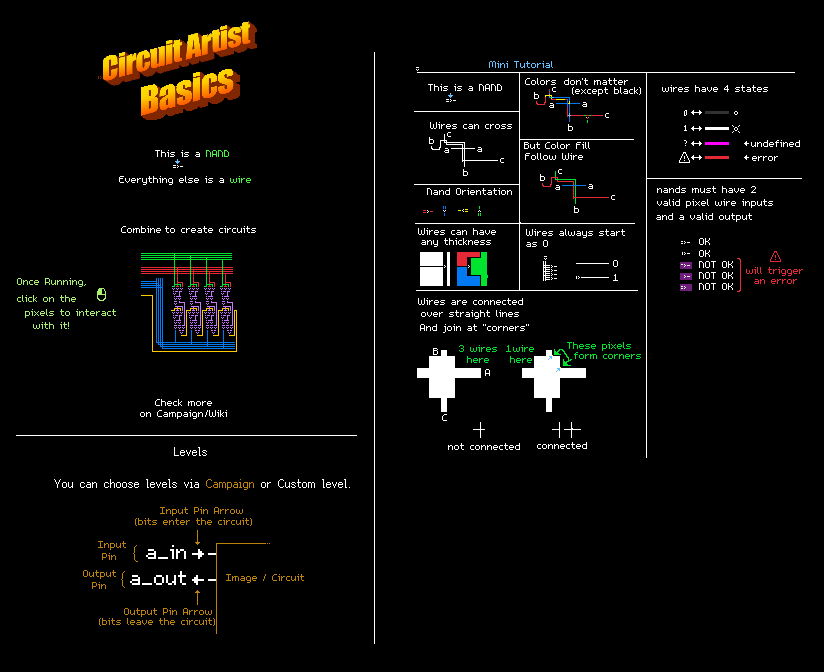
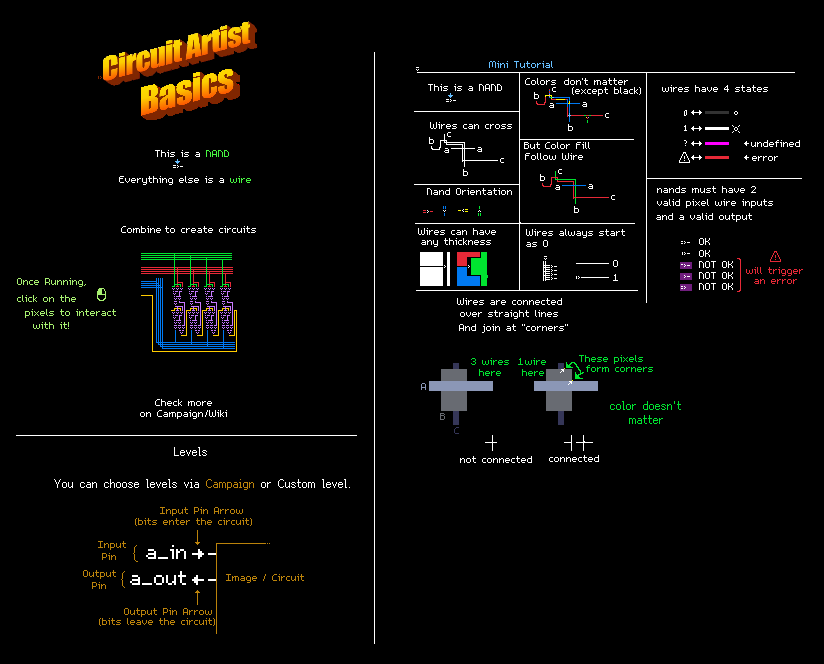
fix a bug when loading custom levels from steam

diff --git a/src/game_registry.c b/src/game_registry.c
@@ -49,7 +49,7 @@ static int lua_AddGroup(lua_State* L) {
   }
   group->id = clone_string(lua_tostring(L, -1));
   lua_pop(L, 1);
-  if (get_group_by_id(r, group->id)) {
+  if (get_group_by_id(group->id)) {
     return luaL_error(L, "Group with id '%s' already exists", group->id);
   }
 
@@ -91,7 +91,7 @@ static int lua_AddGroup(lua_State* L) {
     for (int i = 1; i <= ndeps; i++) {
       lua_rawgeti(L, -1, i);
       const char* id = lua_tostring(L, -1);
-      LevelGroup* group_dep = get_group_by_id(r, id);
+      LevelGroup* group_dep = get_group_by_id(id);
       arrput(group->deps, group_dep);
       lua_pop(L, 1);
     }
@@ -137,7 +137,7 @@ static int lua_AddLevel(lua_State* L) {
   /* Group */
   lua_getfield(L, 1, "group");
   const char* group_id = lua_isstring(L, -1) ? lua_tostring(L, -1) : "custom";
-  LevelGroup* group = get_group_by_id(r, group_id);
+  LevelGroup* group = get_group_by_id(group_id);
   if (!group) {
     return luaL_error(L, TextFormat("There's no group with id: %s", group_id));
   }
@@ -155,7 +155,7 @@ static int lua_AddLevel(lua_State* L) {
   }
   ldef->id = clone_string(TextFormat("campaign:%s", lua_tostring(L, -1)));
   lua_pop(L, 1);
-  if (get_level_by_id(r, ldef->id)) {
+  if (get_level_by_id(ldef->id)) {
     return luaL_error(L, "Level with id '%s' already exists", ldef->id);
   }
 
@@ -180,7 +180,7 @@ static int lua_AddLevel(lua_State* L) {
       lua_rawgeti(L, -1, i);
       const char* id = lua_tostring(L, -1);
       assert(id);
-      LevelDef* ldef_dep = get_level_by_id(r, TextFormat("campaign:%s", id));
+      LevelDef* ldef_dep = get_level_by_id(TextFormat("campaign:%s", id));
       arrput(ldef->deps, ldef_dep);
       lua_pop(L, 1);
     }
@@ -336,10 +336,10 @@ static Mod* init_mod_from_folder(GameRegistry* r, const char* mod_path) {
   return mod;
 }
 
-LevelDef* get_level_by_id(GameRegistry* r, const char* level_id) {
-  int i = shgeti(r->levels, level_id);
+LevelDef* get_level_by_id(const char* level_id) {
+  int i = shgeti(_r->levels, level_id);
   if (i == -1) return NULL;
-  return r->levels[i].value;
+  return _r->levels[i].value;
 }
 
 static int find_topic_by_id(GameRegistry* r, const char* topic_id) {
@@ -350,6 +350,23 @@ static int find_topic_by_id(GameRegistry* r, const char* topic_id) {
     }
   }
   return -1;
+}
+
+static void registry_add_tutorial_topic(GameRegistry* r, const char* topic_id,
+                                        const char* name,
+                                        const char* icon_path) {
+  assert(FileExists(icon_path));
+  int idx = find_topic_by_id(r, topic_id);
+  if (idx != -1) {
+    // TODO Handle this error properly
+    abort();
+  }
+
+  TutorialTopic topic = {0};
+  topic.id = clone_string(topic_id);
+  topic.name = clone_string(name);
+  topic.icon = create_sprite(LoadTexture(icon_path));
+  arrput(r->topics, topic);
 }
 
 static int lua_AddWikiTopic(lua_State* L) {
@@ -377,6 +394,22 @@ static int lua_AddWikiTopic(lua_State* L) {
   return 0;
 }
 
+static void registry_add_tutorial_item(GameRegistry* r, const char* topic_id,
+                                       const char* item_id, const char* name,
+                                       const char* desc, sprite_t* sprites,
+                                       const char* icon_path) {
+  assert(FileExists(icon_path));
+  int idx = find_topic_by_id(r, topic_id);
+  TutorialTopic* topic = &r->topics[idx];
+  TutorialItem item = {0};
+  item.icon = create_sprite(LoadTexture(icon_path));
+  item.desc = clone_string(desc);
+  item.desc_imgs = sprites;
+  item.id = clone_string(item_id);
+  item.name = clone_string(name);
+  arrput(topic->items, item);
+}
+
 static int lua_AddWikiItem(lua_State* L) {
   GameRegistry* r = _load_ctx.registry;
   const char* root = _load_ctx.mod->root;
@@ -386,7 +419,7 @@ static int lua_AddWikiItem(lua_State* L) {
   const char* topic_id = luaL_checkstring(L, -1);
   lua_getfield(L, 1, "id");
   const char* id = luaL_checkstring(L, -1);
-  if (find_wiki_from_id(r, id)) {
+  if (find_wiki_from_id(id)) {
     return luaL_error(L, "Wiki item with id '%s' already exists", id);
   }
   lua_getfield(L, 1, "name");
@@ -427,14 +460,8 @@ static GameRegistry* create_game_registry() {
   return r;
 }
 
-void init_game_registry() {
-  _r = create_game_registry();
-  init_mods(_r);
-  load_progress();
-}
-
-LevelGroup* get_group_by_id(GameRegistry* r, const char* group_id) {
-  return shget(r->groups, group_id);
+LevelGroup* get_group_by_id(const char* group_id) {
+  return shget(_r->groups, group_id);
 }
 
 #ifdef WITH_STEAM
@@ -608,45 +635,13 @@ void load_progress() {
   on_always_on_top_change();
 }
 
-void registry_add_tutorial_topic(GameRegistry* r, const char* topic_id,
-                                 const char* name, const char* icon_path) {
-  assert(FileExists(icon_path));
-  int idx = find_topic_by_id(r, topic_id);
-  if (idx != -1) {
-    // TODO Handle this error properly
-    abort();
-  }
-
-  TutorialTopic topic = {0};
-  topic.id = clone_string(topic_id);
-  topic.name = clone_string(name);
-  topic.icon = create_sprite(LoadTexture(icon_path));
-  arrput(r->topics, topic);
-}
-
-void registry_add_tutorial_item(GameRegistry* r, const char* topic_id,
-                                const char* item_id, const char* name,
-                                const char* desc, sprite_t* sprites,
-                                const char* icon_path) {
-  assert(FileExists(icon_path));
-  int idx = find_topic_by_id(r, topic_id);
-  TutorialTopic* topic = &r->topics[idx];
-  TutorialItem item = {0};
-  item.icon = create_sprite(LoadTexture(icon_path));
-  item.desc = clone_string(desc);
-  item.desc_imgs = sprites;
-  item.id = clone_string(item_id);
-  item.name = clone_string(name);
-  arrput(topic->items, item);
-}
-
-TutorialItem* find_wiki_from_id(GameRegistry* r, const char* item_id) {
-  int nt = arrlen(r->topics);
+TutorialItem* find_wiki_from_id(const char* item_id) {
+  int nt = arrlen(_r->topics);
   for (int it = 0; it < nt; it++) {
-    int ni = arrlen(r->topics[it].items);
+    int ni = arrlen(_r->topics[it].items);
     for (int ii = 0; ii < ni; ii++) {
-      TutorialItem* item = &r->topics[it].items[ii];
-      if (strcmp(r->topics[it].items[ii].id, item_id) == 0) {
+      TutorialItem* item = &_r->topics[it].items[ii];
+      if (strcmp(_r->topics[it].items[ii].id, item_id) == 0) {
         return item;
       }
     }
@@ -750,11 +745,17 @@ static void init_local_mods(GameRegistry* r) {
 /*
  * Loads the mods one by one.
  */
-void init_mods(GameRegistry* r) {
+static void init_mods(GameRegistry* r) {
   init_default_mod(r);
   register_custom_levels(r);
   //  init_local_mods(r);
   blueprint_store_init(&r->store);
+}
+
+void init_game_registry() {
+  _r = create_game_registry();
+  init_mods(_r);
+  load_progress();
 }
 
 u64 extract_item_from_id(const char* id) {
@@ -783,9 +784,8 @@ CustomLevelDef* find_steam_level(GameRegistry* r, u64 steam_id) {
   return NULL;
 }
 
-void add_steam_level_from_folder(GameRegistry* r, const char* folder,
-                                 u64 steam_id) {
-  CustomLevelDef* l = find_steam_level(r, steam_id);
+void add_steam_level_from_folder(const char* folder, u64 steam_id) {
+  CustomLevelDef* l = find_steam_level(_r, steam_id);
   if (l) {
     // TODO: Update existing level
     l->unsubscribed = false;
@@ -800,7 +800,7 @@ void add_steam_level_from_folder(GameRegistry* r, const char* folder,
   load_custom_level(folder, id, ldef);
   ldef->type = CUSTOM_LEVEL_STEAM;
   ldef->steam_author = clone_string(meta.author_name);
-  arrput(r->workshop_custom_levels, ldef);
+  arrput(_r->workshop_custom_levels, ldef);
   unload_steam_meta(&meta);
 }
 
@@ -819,29 +819,29 @@ bool folder_is_level(const char* folder) {
   return ok;
 }
 
-CustomLevelDef* find_custom_level_by_id(GameRegistry* r, const char* id) {
+CustomLevelDef* find_custom_level_by_id(const char* id) {
   if (starts_with(id, "steam:")) {
-    int n = arrlen(r->workshop_custom_levels);
-    for (int i = 0; i < arrlen(r->workshop_custom_levels); i++) {
-      CustomLevelDef* l = r->workshop_custom_levels[i];
+    int n = arrlen(_r->workshop_custom_levels);
+    for (int i = 0; i < arrlen(_r->workshop_custom_levels); i++) {
+      CustomLevelDef* l = _r->workshop_custom_levels[i];
       if (strcmp(id, l->id) == 0) {
         return l;
       }
     }
   }
   if (starts_with(id, "local:")) {
-    int n = arrlen(r->local_custom_levels);
-    for (int i = 0; i < arrlen(r->local_custom_levels); i++) {
-      CustomLevelDef* l = r->local_custom_levels[i];
+    int n = arrlen(_r->local_custom_levels);
+    for (int i = 0; i < arrlen(_r->local_custom_levels); i++) {
+      CustomLevelDef* l = _r->local_custom_levels[i];
       if (strcmp(id, l->id) == 0) {
         return l;
       }
     }
   }
   if (starts_with(id, "official:")) {
-    int n = arrlen(r->official_custom_levels);
-    for (int i = 0; i < arrlen(r->official_custom_levels); i++) {
-      CustomLevelDef* l = r->official_custom_levels[i];
+    int n = arrlen(_r->official_custom_levels);
+    for (int i = 0; i < arrlen(_r->official_custom_levels); i++) {
+      CustomLevelDef* l = _r->official_custom_levels[i];
       if (strcmp(id, l->id) == 0) {
         return l;
       }
@@ -852,11 +852,11 @@ CustomLevelDef* find_custom_level_by_id(GameRegistry* r, const char* id) {
 
 const char* get_level_name_by_id(const char* id) {
   if (starts_with(id, "campaign:")) {
-    LevelDef* lvl = get_level_by_id(_r, id);
+    LevelDef* lvl = get_level_by_id(id);
     if (!lvl) return "(unknown)";
     return lvl->name;
   } else {
-    CustomLevelDef* lvl = find_custom_level_by_id(_r, id);
+    CustomLevelDef* lvl = find_custom_level_by_id(id);
     if (!lvl) return "(unknown)";
     return lvl->name;
   }

diff --git a/src/game_registry.h b/src/game_registry.h
@@ -134,28 +134,18 @@ typedef struct GameRegistry {
 
 void init_game_registry();
 GameRegistry* getreg();
-
-void init_mods(GameRegistry* r);
-
-LevelDef* get_level_by_id(GameRegistry* r, const char* level_id);
-LevelGroup* get_group_by_id(GameRegistry* r, const char* group_id);
+LevelDef* get_level_by_id(const char* level_id);
+LevelGroup* get_group_by_id(const char* group_id);
 void dispatch_level_complete(LevelDef* ldef);
 void save_progress();
 void load_progress();
-void registry_add_tutorial_topic(GameRegistry* r, const char* topic_id,
-                                 const char* name, const char* icon_file);
-void registry_add_tutorial_item(GameRegistry* r, const char* topic_id,
-                                const char* item_id, const char* name,
-                                const char* desc, sprite_t* sprites,
-                                const char* icon_file);
-void add_steam_level_from_folder(GameRegistry* r, const char* folder,
-                                 u64 steam_id);
-TutorialItem* find_wiki_from_id(GameRegistry* r, const char* item_id);
+void add_steam_level_from_folder(const char* folder, u64 steam_id);
+TutorialItem* find_wiki_from_id(const char* item_id);
 u64 extract_item_from_id(const char* id);
 char* get_custom_levels_folder();
 const char* get_custom_level_kernel_path(CustomLevelDef* ldef);
 bool folder_is_level(const char* folder);
-CustomLevelDef* find_custom_level_by_id(GameRegistry* r, const char* id);
+CustomLevelDef* find_custom_level_by_id(const char* id);
 
 bool is_paint_sound_on();
 bool is_circuit_sound_on();

diff --git a/src/win_main.c b/src/win_main.c
@@ -476,12 +476,12 @@ static void load_campaign_level(LevelDef* ldef) {
 void main_load_by_level_id(const char* id) {
   if (!id) return;
   if (starts_with(id, "campaign:")) {
-    LevelDef* ldef = get_level_by_id(C.r, id);
+    LevelDef* ldef = get_level_by_id(id);
     if (ldef) {
       load_campaign_level(ldef);
     }
   } else {
-    CustomLevelDef* ldef = find_custom_level_by_id(C.r, id);
+    CustomLevelDef* ldef = find_custom_level_by_id(id);
     if (ldef) {
       win_main_load_custom_level(ldef);
     }

diff --git a/src/script.c b/src/script.c
@@ -144,7 +144,7 @@ void script_update() {
       }
       char txt[200];
       snprintf(txt, sizeof(txt), "campaign:%s", tests[C.cur_level].id);
-      LevelDef* ldef = get_level_by_id(r, txt);
+      LevelDef* ldef = get_level_by_id(txt);
       win_level_set_sel(ldef);
       C.wait = 5;
       C.state++;

diff --git a/src/win_customlvl.c b/src/win_customlvl.c
@@ -426,7 +426,7 @@ void win_customlvl_draw() {
 }
 
 void notify_installed_steam_level(const char* folder, u64 item) {
-  add_steam_level_from_folder(C.r, folder, item);
+  add_steam_level_from_folder(folder, item);
 }
 
 CustomLevelDef* find_sandbox_custom_level() {

diff --git a/src/win_level.c b/src/win_level.c
@@ -340,7 +340,7 @@ void win_level_draw() {
         btn_draw_legend(&C.btn_msg[i], lvl->extra_content[i].title);
       }
       if (item->wiki) {
-        TutorialItem* wiki_item = find_wiki_from_id(C.registry, item->wiki);
+        TutorialItem* wiki_item = find_wiki_from_id(item->wiki);
         if (wiki_item) {
           btn_draw_legend(&C.btn_msg[i], wiki_item->name);
         }